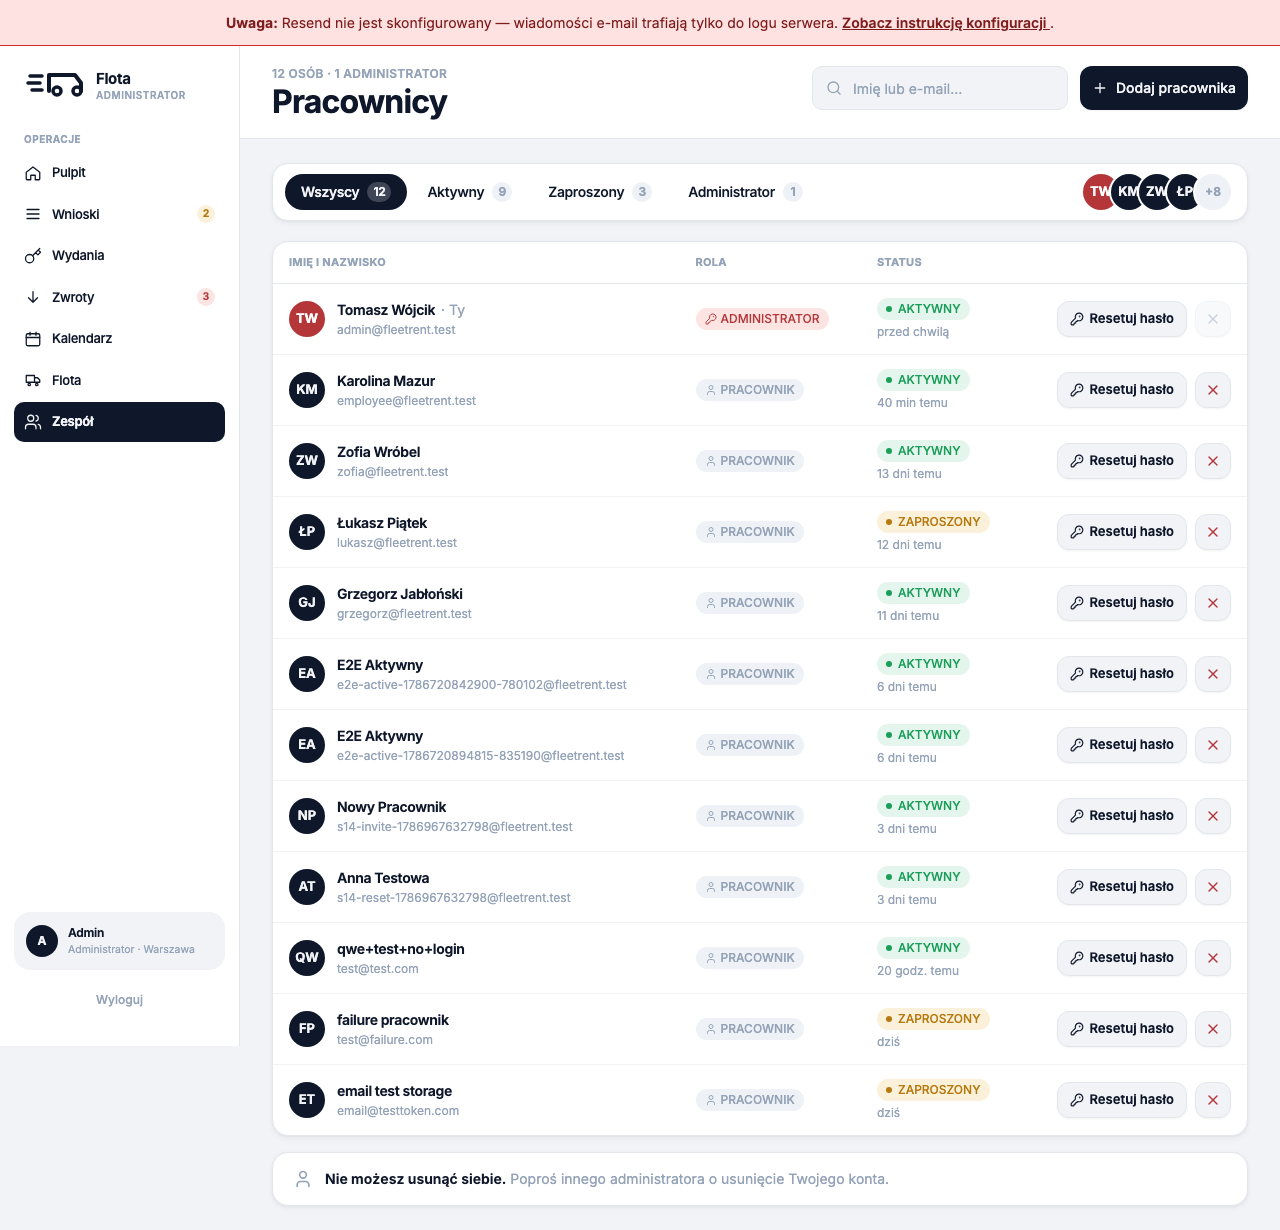
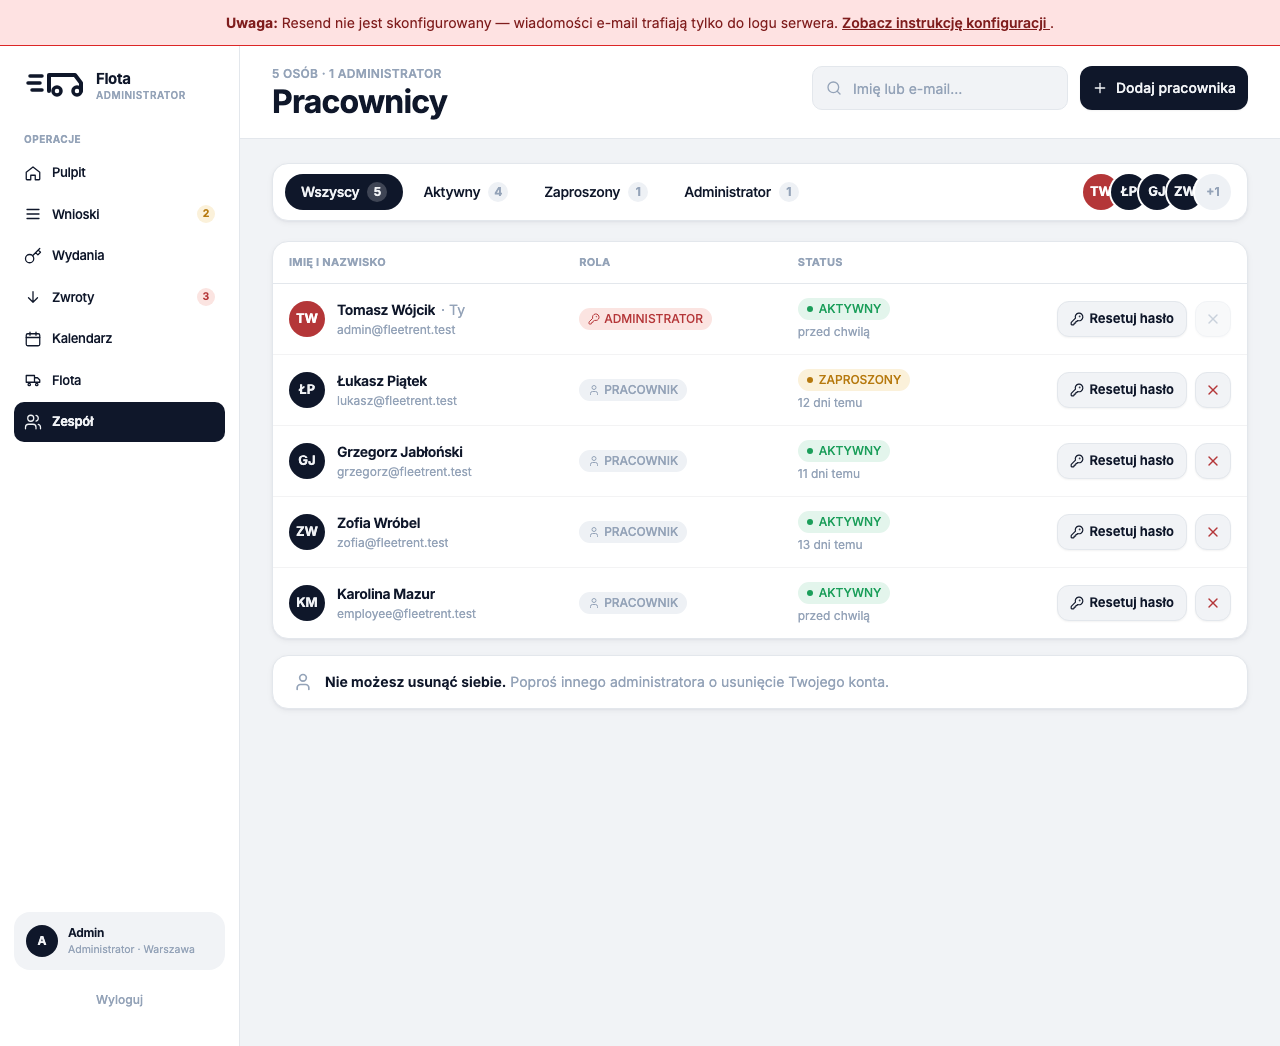
chore(invite-journey-fixes): close out the plan (epilogue)
1.11 verified on a clean dataset (the shared local DB's 9 non-seed test accounts
were backed up and removed, leaving the seed's 5 roster rows — the mockup's
count). The binding assertion holds: `git diff 798f24a..HEAD -- StaffList.tsx`
changes copy and the addEmployee branch only, with ZERO JSX or className edits,
so the healthy roster is pixel-identical to before.

The mockup itself turned out to be stale against the shipped S-08 surface —
catalog 19 shows three count tiles where the app ships the filter tab bar its own
contract §3.2/§3.13 specifies, and a separate LAST ACTIVE column. Neither is
ours; recorded as a correction in design-contract §1 rather than fixed.

All 101 Progress rows are now [x]; change.md -> implemented.

diff --git a/context/changes/invite-journey-fixes/design-contract.md b/context/changes/invite-journey-fixes/design-contract.md
@@ -28,6 +28,19 @@
 | — none —                                                                  | Roster provisioning-failure banner     | **missing** — new, see §2          |
 
 **No repo design is superseded by this change**; every asset above is still the canonical baseline.
+
+> **Correction, recorded 2026-08-21 during the phase-1 vision-diff (row 1.11).** Catalog 19/25 are
+> marked "current" above, and for the purposes of THIS change they are — the healthy roster is
+> provably pixel-identical to before (`git diff 798f24a..HEAD -- StaffList.tsx` touches copy and the
+> `addEmployee` branch only; **zero** JSX or `className` changes). But the mockups are **stale
+> against the shipped S-08 surface**, in two ways that predate this change and belong to nobody in
+> it: catalog 19 shows three count **tiles** (ACTIVE / INVITED / ADMIN) where the app ships a filter
+> **tab bar + avatar stack** — which is S-08's own contract §3.2/§3.13, cited verbatim at
+> `StaffList.tsx:692`, so the contract superseded the artboard and the artboard was never refreshed —
+> and it carries a separate `LAST ACTIVE` column where the app nests last-active under the STATUS
+> badge. Recorded, not fixed: refreshing catalog 19/25 belongs to whoever next changes the roster's
+> design, alongside the standing to-do to promote the auth artboards into `design-system.md`.
+
 Two gaps are pre-existing rather than introduced here:
 
 - **R14 has no artboard.** `auth-followups` shipped it as a no-artboard card and amended S-14's

diff --git a/context/changes/invite-journey-fixes/plan.md b/context/changes/invite-journey-fixes/plan.md
@@ -1019,7 +1019,7 @@ row (`lessons.md` → "Wrap auth calls and role helpers in (select …)"; the pa
 - [x] 1.8 Forced insert failure surfaces the new banner, not the network banner — 4552fad
 - [x] 1.9 `Ponów` completes the account and the person appears on the roster — 4552fad
 - [x] 1.10 Banner copy matches `design-contract.md` §9 verbatim — 4552fad
-- [ ] 1.11 Roster renders unchanged against `19-admin-desktop-employees.png` / `25-admin-mobile-employees.jpg`
+- [x] 1.11 Roster renders unchanged against `19-admin-desktop-employees.png` / `25-admin-mobile-employees.jpg` — 4552fad
 - [x] 1.12 A genuine network failure still shows the original network banner — 4552fad
 
 ### Phase 2: Password-set signal — data layer

diff --git a/context/changes/invite-journey-fixes/change.md b/context/changes/invite-journey-fixes/change.md
@@ -1,7 +1,7 @@
 ---
 change_id: invite-journey-fixes
 title: Invite journey fixes — provisioning rollback and deferred link exchange
-status: implementing
+status: implemented
 created: 2026-08-18
 updated: 2026-08-21
 archived_at: null
